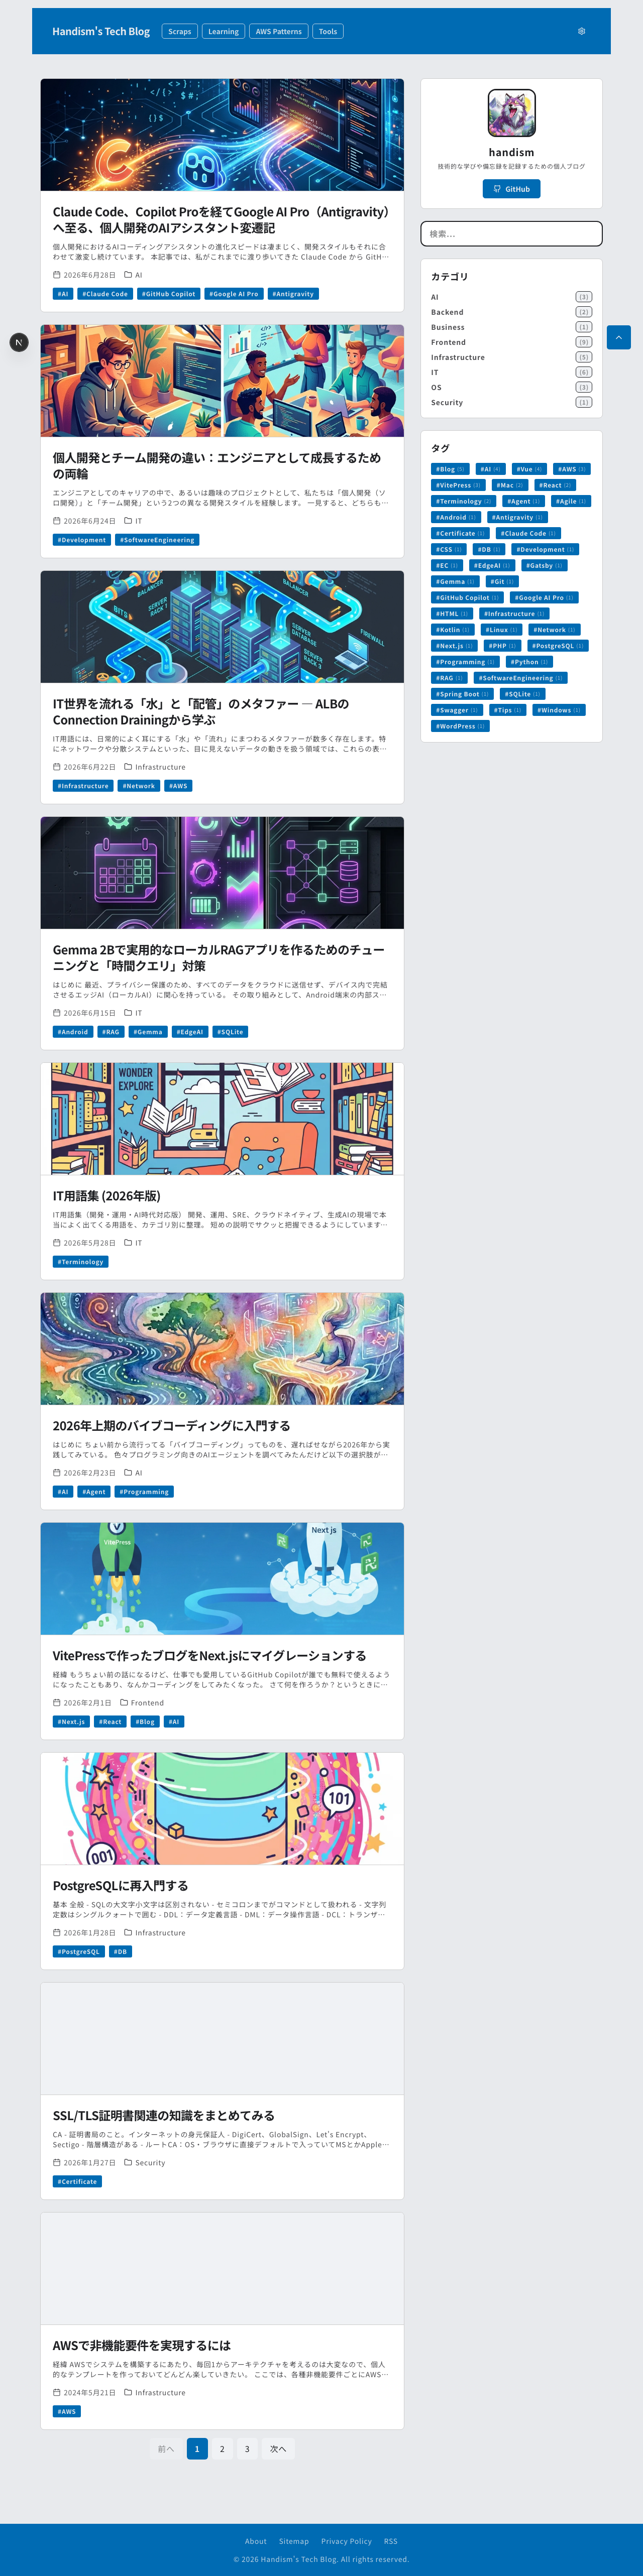
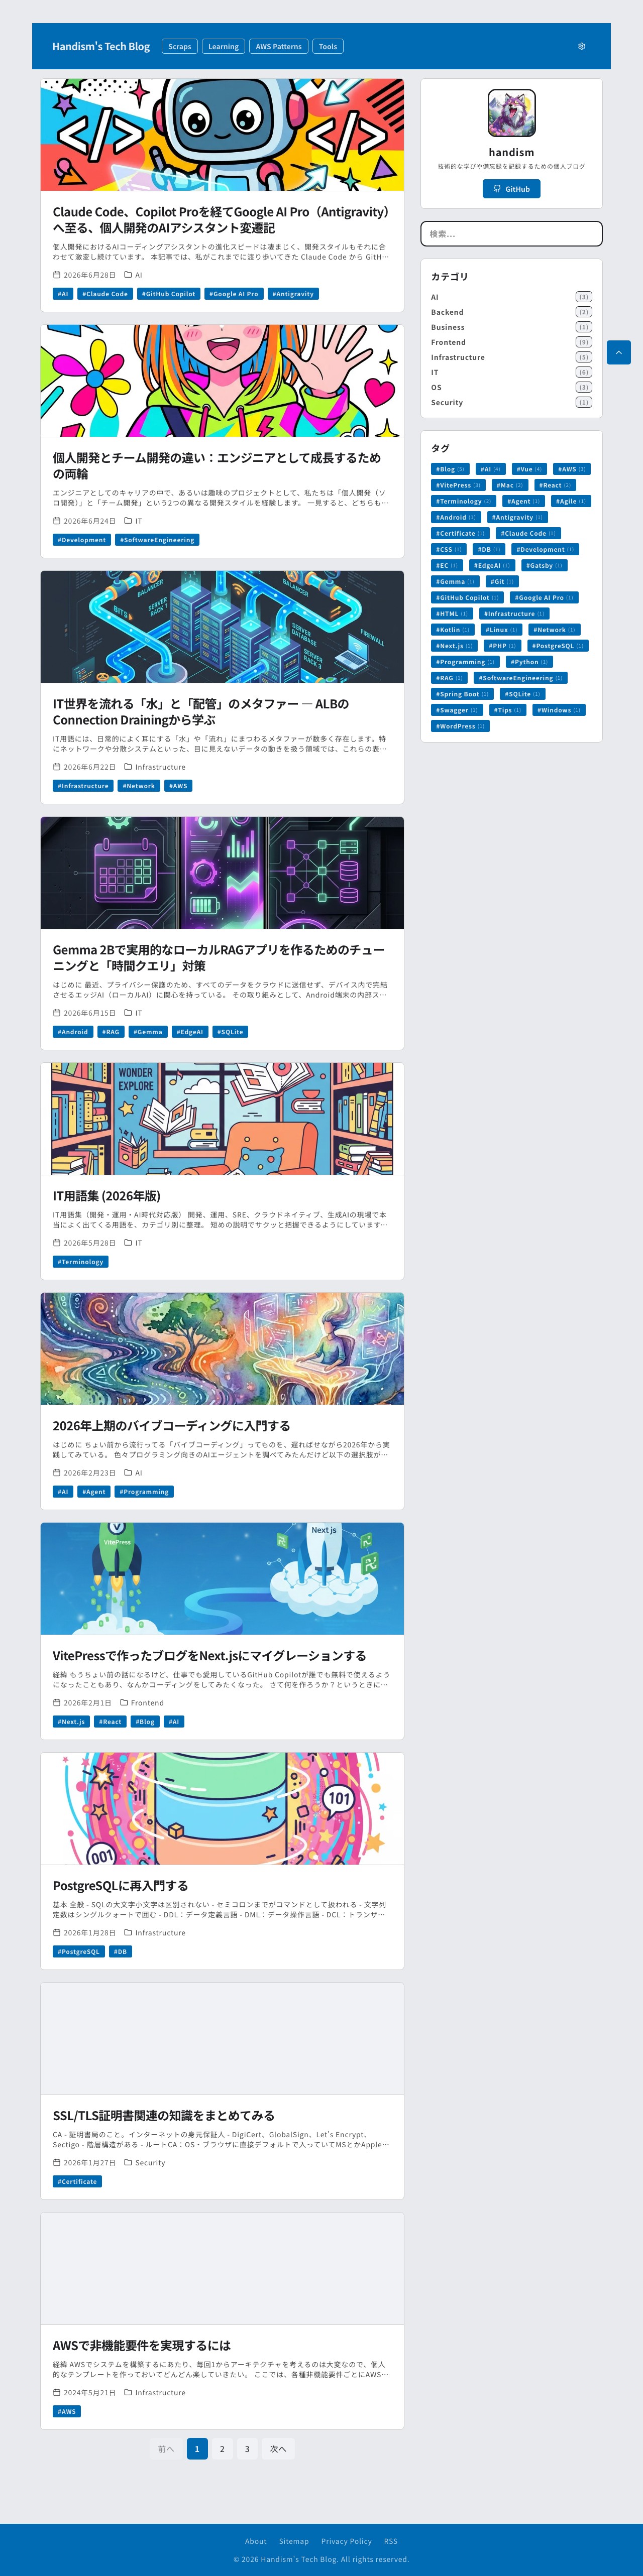
chore: resolve lint warnings, suppress test console noise, and update Playwright config/snapshots

Changed region(s): [[0.0312, 0.0, 0.9688, 0.0935], [0.0625, 0.1247, 0.625, 0.1871], [0.9375, 0.1247, 1.0, 0.1559]]

diff --git a/src/lib/utils.ts b/src/lib/utils.ts
@@ -11,7 +11,9 @@ export function parseFrontmatter<T>(
   const { data, content } = matter(raw);
   const result = schema.safeParse(data);
   if (!result.success) {
-    console.warn('Frontmatter parse failed:', result.error.flatten());
+    if (!process.env.VITEST) {
+      console.warn('Frontmatter parse failed:', result.error.flatten());
+    }
     return { data: schema.parse({}), content };
   }
   return { data: result.data, content };

diff --git a/app/search.json/route.ts b/app/search.json/route.ts
@@ -11,6 +11,6 @@ export const dynamic = 'force-static';
 export async function GET() {
   const allPosts = await getAllPostMeta();
   // plaintext は容量が大きいため、クライアントサイド検索インデックスからは完全に除外する
-  const serializedPosts = allPosts.map(({ plaintext, ...rest }) => rest);
+  const serializedPosts = allPosts.map(({ plaintext: _plaintext, ...rest }) => rest);
   return NextResponse.json(serializedPosts);
 }

diff --git a/playwright.config.ts b/playwright.config.ts
@@ -28,7 +28,7 @@ export default defineConfig({
     },
   ],
   webServer: {
-    command: 'bunx serve -p 3000 out',
+    command: 'npx serve -p 3000 out',
     url: 'http://localhost:3000',
     reuseExistingServer: !process.env.CI,
     timeout: 120000,